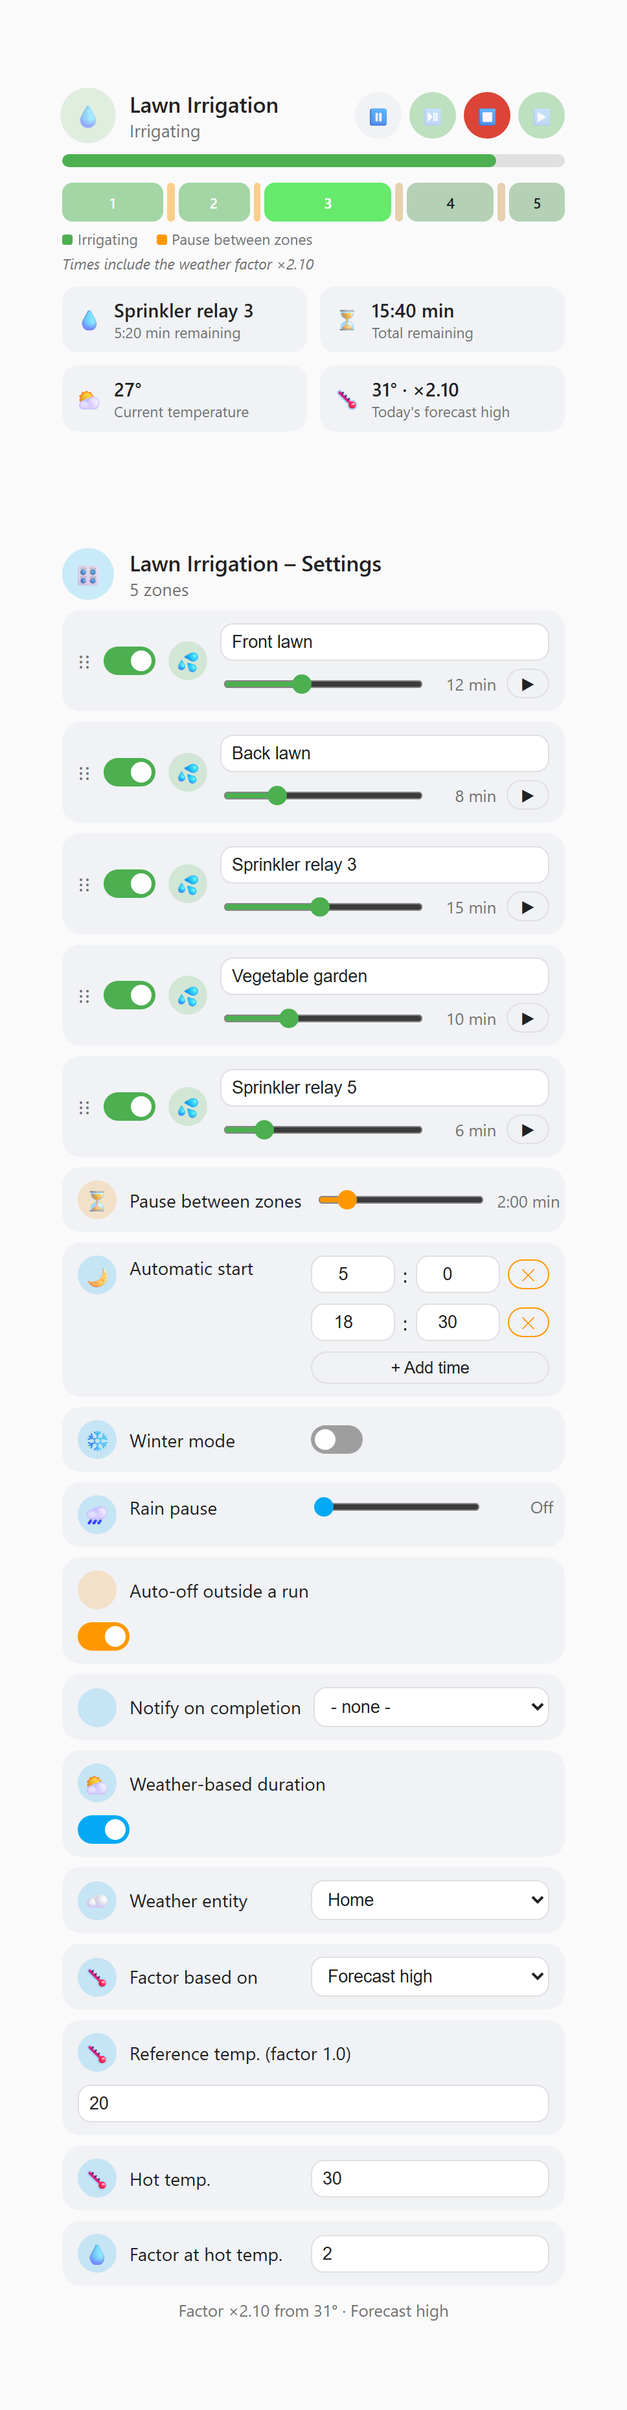
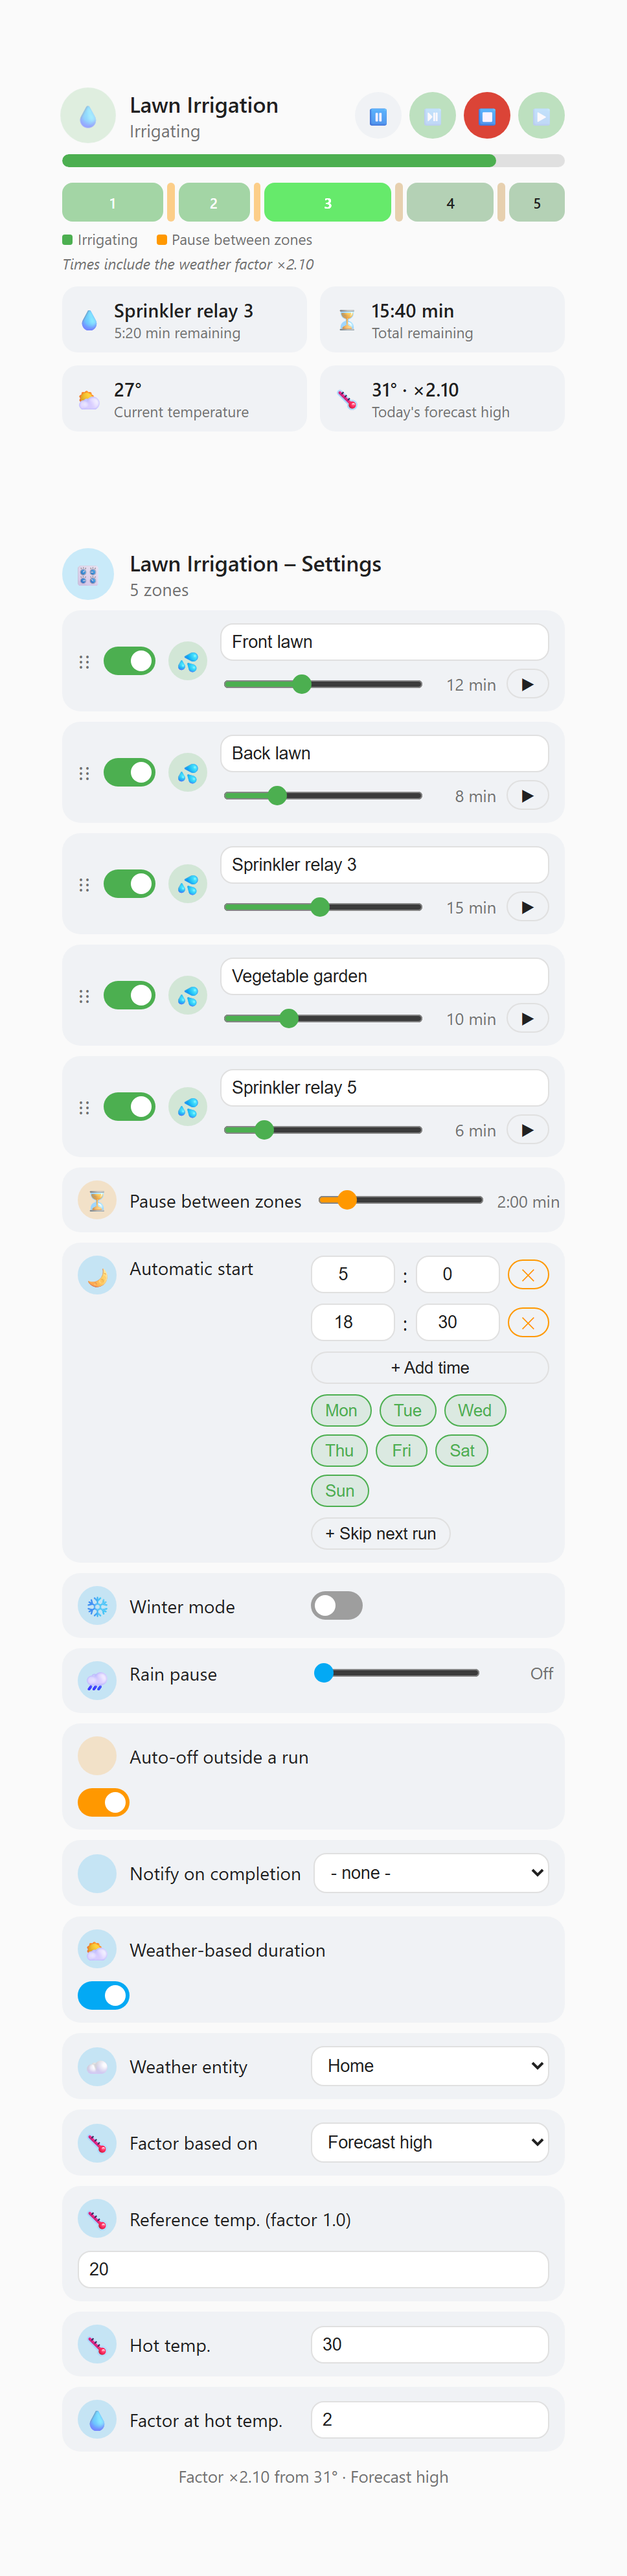
Docs (EN/DE), changelog and screenshots for v1.8.0 (#71, #72)

diff --git a/custom_components/irrigation_sequencer/frontend/irrigation-sequencer-card.js b/custom_components/irrigation_sequencer/frontend/irrigation-sequencer-card.js
@@ -22,7 +22,7 @@ const DEFAULT_ZONE_DURATION_MINUTES = 10;
 // browser console, whether an update actually took effect versus just
 // looking "the same" as before. Keep this in step with manifest.json's
 // "version" on every release.
-const CARD_VERSION = "1.7.0";
+const CARD_VERSION = "1.8.0";
 // eslint-disable-next-line no-console
 console.info(
   `%c IRRIGATION-SEQUENCER-CARD %c v${CARD_VERSION} `,

diff --git a/README.de.md b/README.de.md
@@ -43,6 +43,13 @@ im Browser ausprobieren kannst.*
   (z. B. neuer Sprinklerkopf) über den ▶-Button in ihrer
   Settings-Card-Zeile oder `irrigation_sequencer.run_zone` – immer exakt
   die gewünschte Zeit, ohne Wetter-Faktor
+- **Lauftage** – geplante Läufe auf ausgewählte Wochentage beschränken
+  (z. B. Mo/Mi/Fr) über die Wochentag-Chips in der Settings-Card oder
+  `irrigation_sequencer.set_run_weekdays` – manuelle Starts gehen immer
+- **Nächsten Lauf überspringen** – den kommenden geplanten Lauf einmal
+  aussetzen (Gärtnerbesuch, Party auf dem Rasen) über die Settings-Card,
+  die Skip-Button-Entität oder `irrigation_sequencer.skip_next_run` –
+  danach automatisch vergessen, zurücknehmen mit `clear_skip_next_run`
 - **Sequenz mit fester Reihenfolge** – jede Zone wird nacheinander bewässert,
   die Reihenfolge lässt sich in der Settings-Card per Drag & Drop ändern
 - **Individuelle Dauer pro Zone** – jede Zone hat ihre eigene Bewässerungsdauer (Minuten)
@@ -255,6 +262,9 @@ eigene Automationen:
 | `irrigation_sequencer.set_zone_duration` | Bewässerungsdauer einer Zone setzen |
 | `irrigation_sequencer.set_zone_enabled` | Zone in die Sequenz aufnehmen/ausschließen (ab dem nächsten Lauf) |
 | `irrigation_sequencer.run_zone` | Einzelne Zone einmal zum Testen laufen lassen (ohne Wetter-Faktor) |
+| `irrigation_sequencer.set_run_weekdays` | Geplante Läufe auf Wochentage beschränken (Mo=1..So=7) |
+| `irrigation_sequencer.skip_next_run` | Nächsten geplanten Lauf einmal überspringen |
+| `irrigation_sequencer.clear_skip_next_run` | Vorgemerktes Überspringen zurücknehmen |
 | `irrigation_sequencer.set_pause_between_zones` | Pause zwischen Zonen setzen |
 | `irrigation_sequencer.set_start_times` | Tägliche Startzeiten setzen (1–3) |
 | `irrigation_sequencer.set_rain_pause` | Regen-Pause für 1–24 Tage setzen |

diff --git a/README.md b/README.md
@@ -38,6 +38,13 @@ Home Assistant instance.*
   sprinkler head) via the ▶ button on its settings-card row or
   `irrigation_sequencer.run_zone` - always exactly the requested time,
   weather factor never applied
+- **Run weekdays** - restrict scheduled runs to selected weekdays (e.g.
+  Mon/Wed/Fri) via weekday chips in the settings card or
+  `irrigation_sequencer.set_run_weekdays` - manual starts always work
+- **Skip next run** - skip the upcoming scheduled run once (gardener visit,
+  party on the lawn) via the settings card, the skip button entity, or
+  `irrigation_sequencer.skip_next_run` - forgotten automatically after use,
+  undo with `clear_skip_next_run`
 - **Sequential order** - each zone is irrigated one after another; the order
   can be changed by drag & drop directly in the settings card
 - **Per-zone duration** - every zone has its own irrigation duration (minutes)
@@ -233,6 +240,9 @@ automations:
 | `irrigation_sequencer.set_zone_duration` | Set the irrigation duration of a zone |
 | `irrigation_sequencer.set_zone_enabled` | Include/exclude a zone from the sequence (from the next run) |
 | `irrigation_sequencer.run_zone` | Run a single zone once for testing (no weather factor) |
+| `irrigation_sequencer.set_run_weekdays` | Restrict scheduled runs to selected weekdays (Mon=1..Sun=7) |
+| `irrigation_sequencer.skip_next_run` | Skip the upcoming scheduled run once |
+| `irrigation_sequencer.clear_skip_next_run` | Take back a pending one-shot skip |
 | `irrigation_sequencer.set_pause_between_zones` | Set the pause between zones |
 | `irrigation_sequencer.set_start_times` | Set the daily start times (1-3) |
 | `irrigation_sequencer.set_rain_pause` | Pause irrigation for 1-24 days |

diff --git a/CHANGELOG.md b/CHANGELOG.md
@@ -5,6 +5,26 @@ All notable changes to this project are documented here. Versioning follows
 `custom_components/irrigation_sequencer/manifest.json` and tagged as a
 GitHub release (`vX.Y.Z`) once pushed.
 
+## [1.8.0] - 2026-10-03
+
+- **Run weekdays** (fixes
+  [#71](https://github.com/ReneSattler/ha-irrigation-sequencer/issues/71)):
+  scheduled runs can be restricted to selected weekdays (ISO Monday=1 ..
+  Sunday=7, every day by default). The daily triggers stay as they are
+  and filter at fire time; `next_run` jumps to the next enabled weekday
+  including week wraparound. New `irrigation_sequencer.set_run_weekdays`
+  service and weekday chips in the settings card (the last active day
+  cannot be switched off).
+- **Skip next run** (fixes
+  [#72](https://github.com/ReneSattler/ha-irrigation-sequencer/issues/72)):
+  one-shot skip of the upcoming scheduled run, persisted so an evening
+  "skip tomorrow morning" survives a night restart. New
+  `irrigation_sequencer.skip_next_run` / `.clear_skip_next_run`
+  services, a skip button entity, skip/undo controls in the settings
+  card, and a "Next run skipped" status hint (with `next_run` already
+  pointing at the run after). Manual starts ignore the flag and leave it
+  armed; winter mode and rain pause keep it armed too.
+
 ## [1.7.0] - 2026-10-03
 
 - **Per-zone enable/disable** (fixes
